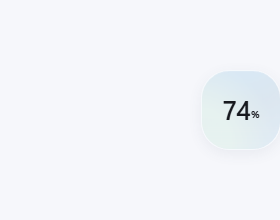
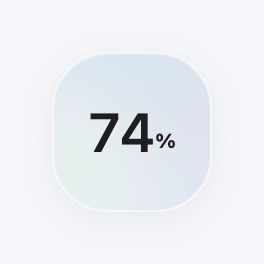
Update README screenshots for current UI

diff --git a/README.md b/README.md
@@ -6,7 +6,11 @@ Lightweight floating desktop widget for checking Codex quota from the local Code
 
 TokenHalo is an independent open-source project. It is not affiliated with, endorsed by, or sponsored by OpenAI. Codex is referenced only to describe compatibility.
 
-![TokenHalo quota states](docs/images/quota-states.png)
+| Remaining quota | Local Token statistics |
+| --- | --- |
+| ![TokenHalo remaining quota](docs/images/quota-card.png) | ![TokenHalo local Token statistics](docs/images/token-stats.png) |
+
+Screenshots use simulated data. Installed desktop builds read the current user's own Codex quota and local session records when available.
 
 ## Highlights
 
@@ -24,9 +28,13 @@ TokenHalo is an independent open-source project. It is not affiliated with, endo
 
 ## Screenshots
 
-| Quota states | Floating orb | Reset credit expiration |
-| --- | --- | --- |
-| ![Healthy, caution, and critical quota states](docs/images/quota-states.png) | ![Collapsed quota orb](docs/images/quota-orb.png) | ![Reset credit expiration popover](docs/images/quota-reset-expiration.png) |
+### Quota states
+
+![Healthy, caution, and critical quota states](docs/images/quota-states.png)
+
+| Floating orb | Reset credit expiration |
+| --- | --- |
+| ![Collapsed quota orb](docs/images/quota-orb.png) | ![Reset credit expiration popover](docs/images/quota-reset-expiration.png) |
 
 ## Repository Metadata
 
